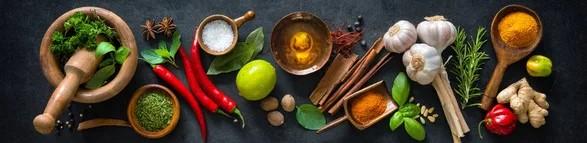
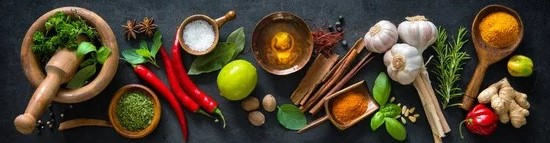
Small Changes

diff --git a/src/screens/Home.js b/src/screens/Home.js
@@ -51,13 +51,24 @@ export default function Home() {
             </div>
           </div>
           <div className="carousel-item active">
-            <img src={img1} className="d-block w-100" style={{ filter: "brightness(30%)" }} alt="..." />
+            <img src={img1} className="d-block w-100" style={{ width: "700px", 
+      height: "500px", 
+      objectFit: "cover", filter: "brightness(50%)" }} alt="..." />
           </div>
           <div className="carousel-item">
-            <img src={img2} className="d-block w-100" style={{ filter: "brightness(30%)" }} alt="..." />
+            <img src={img2}
+    className="d-block w-100"
+    style={{
+      width: "700px", 
+      height: "500px", 
+      objectFit: "cover", 
+      filter: "brightness(50%)",
+    }} alt="..." />
           </div>
           <div className="carousel-item">
-            <img src={img3} className="d-block w-100" style={{ filter: "brightness(30%)" }} alt="..." />
+            <img src={img3} className="d-block w-100" style={{ width: "700px", 
+      height: "500px", 
+      objectFit: "cover", filter: "brightness(50%)" }} alt="..." />
           </div>
         </div>
         <button className="carousel-control-prev" type="button" data-bs-target="#carouselExampleFade" data-bs-slide="prev">
